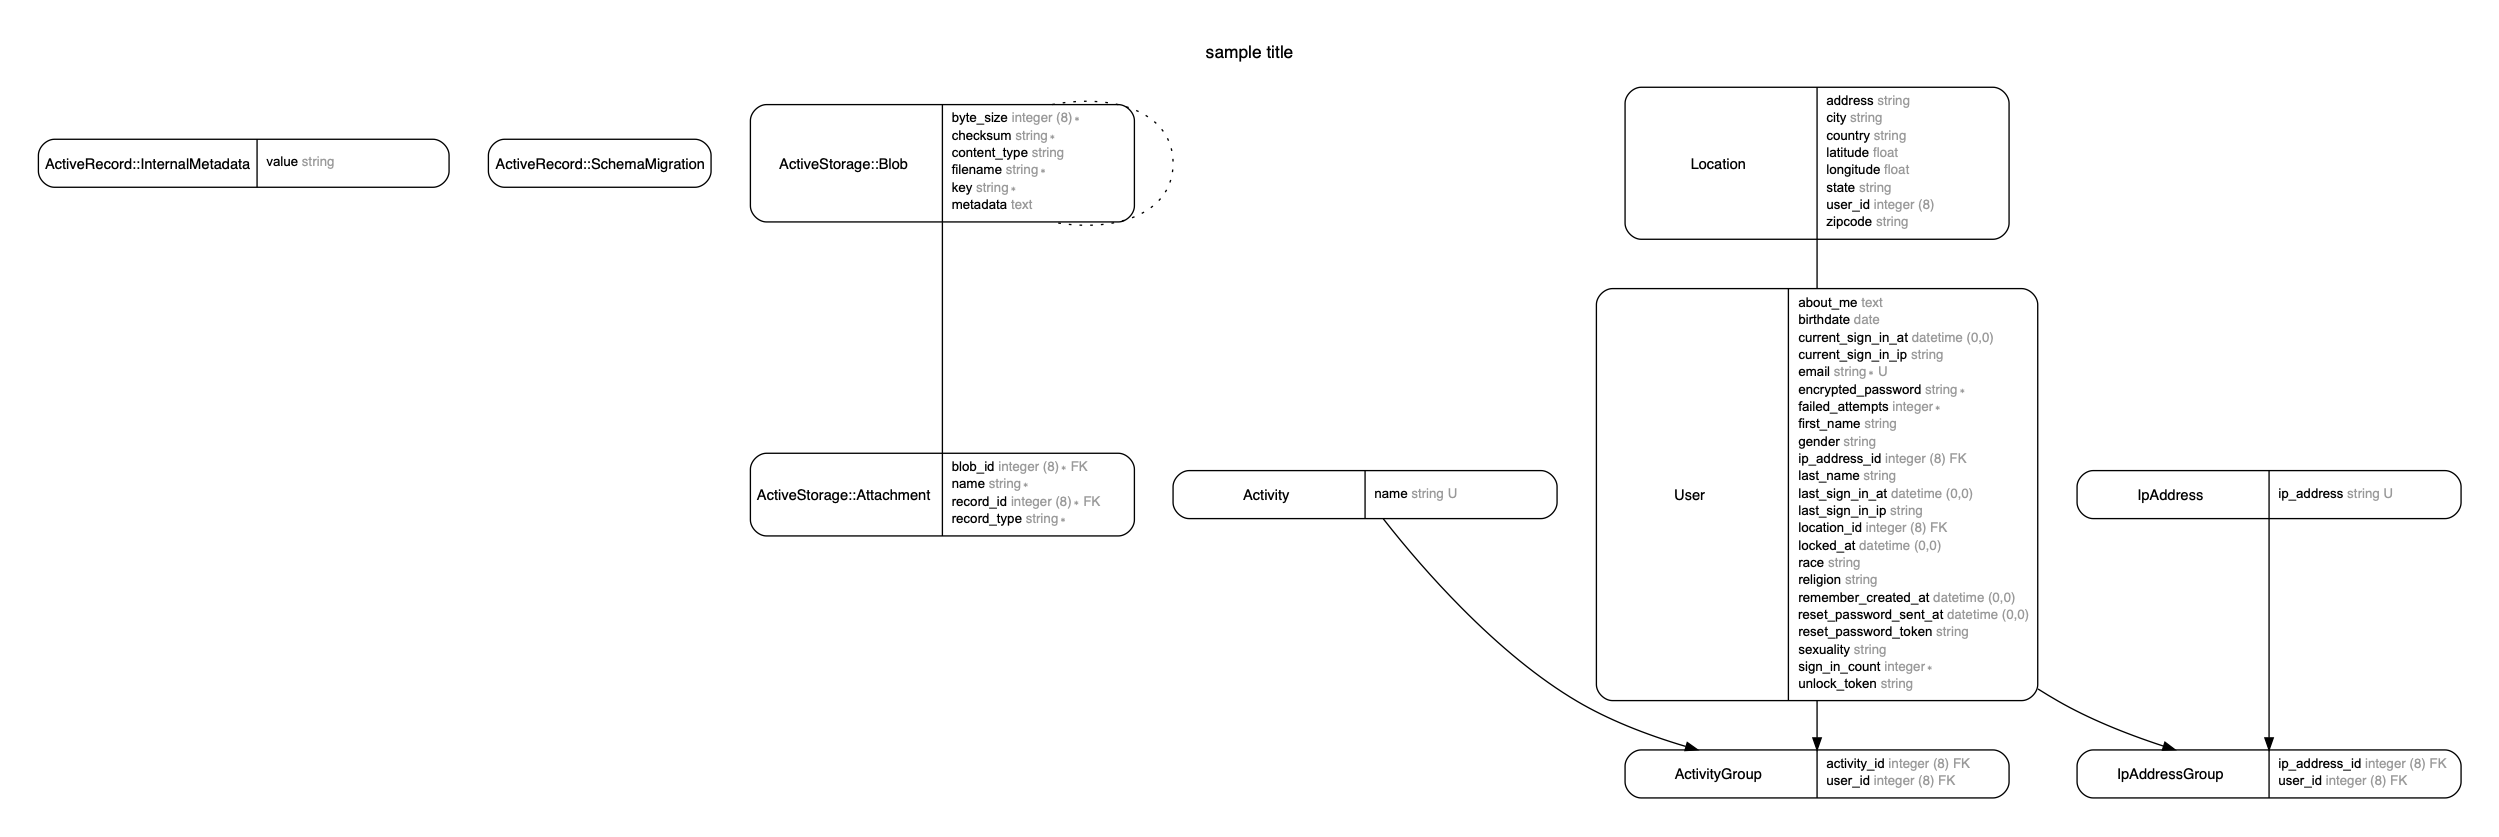
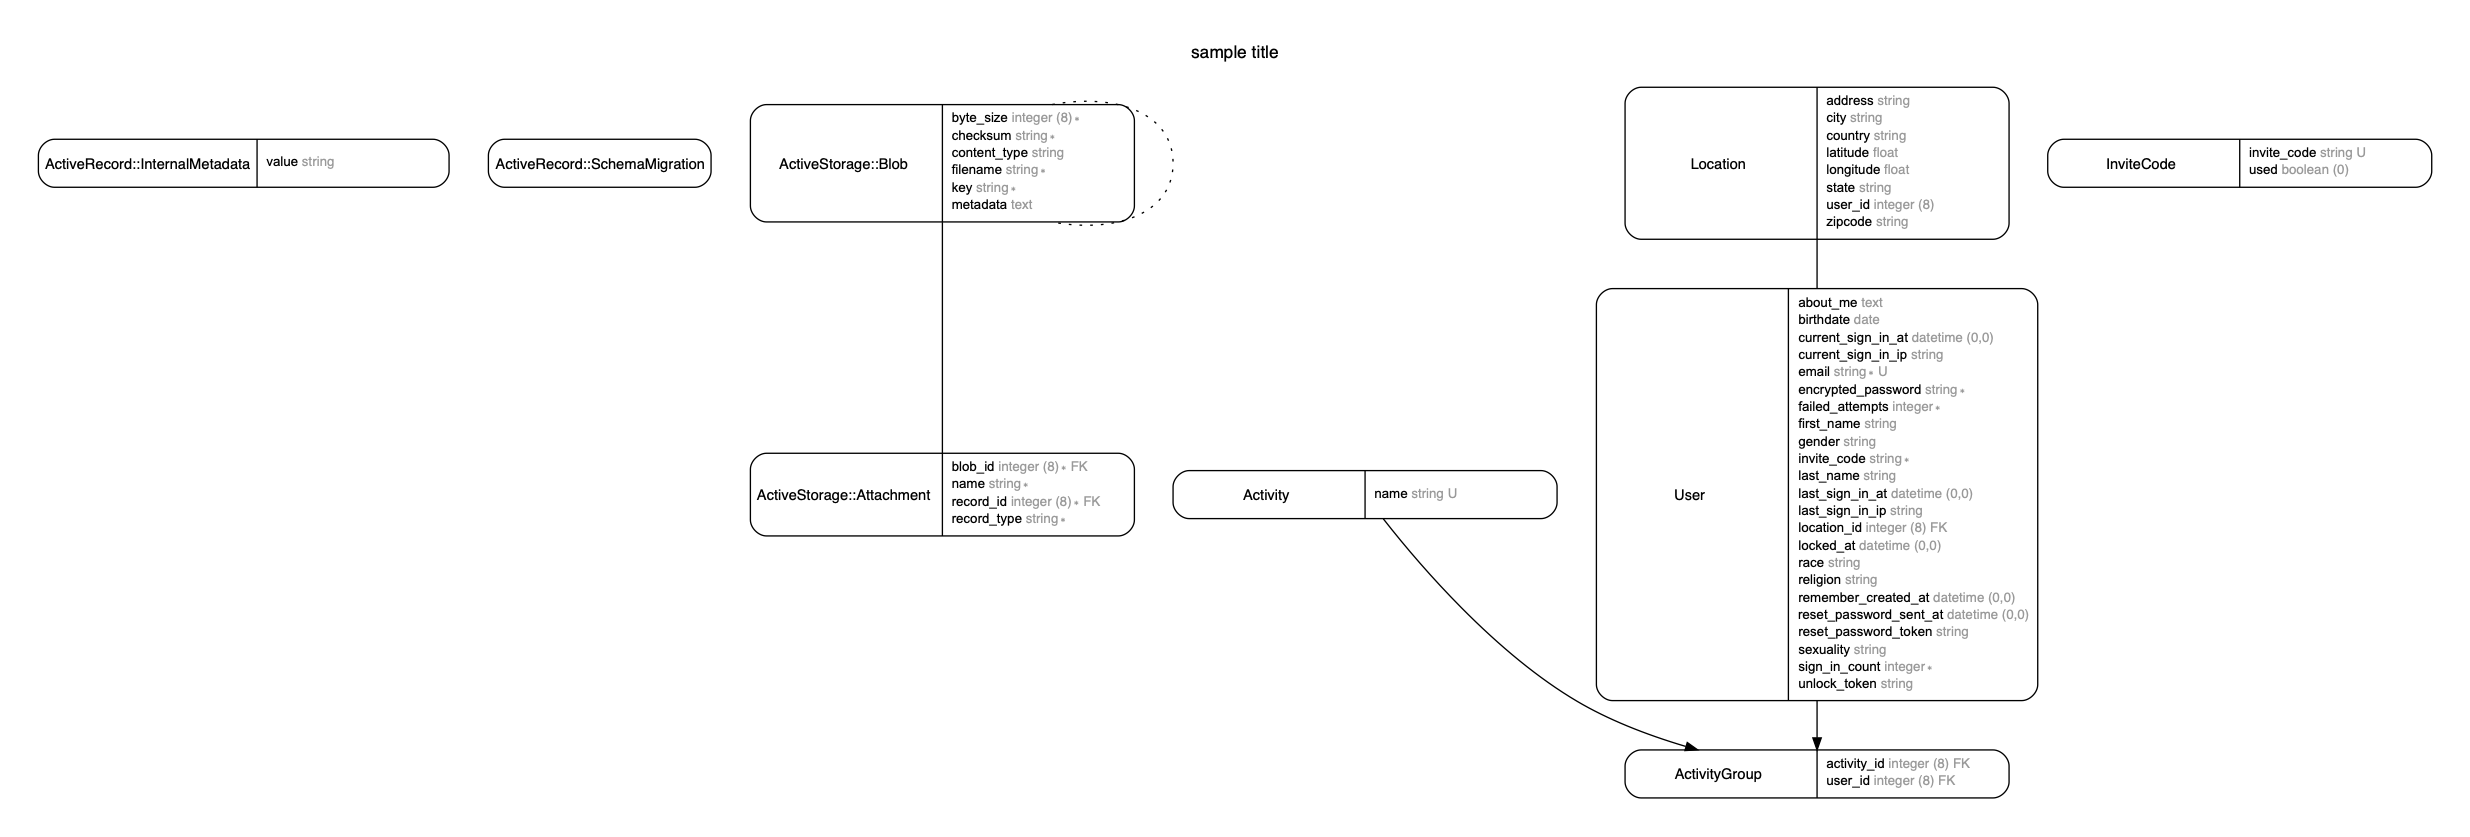
Account update and signup now has correct params, can be updated and also has invite code.

diff --git a/db/schema.rb b/db/schema.rb
@@ -10,7 +10,7 @@
 #
 # It's strongly recommended that you check this file into your version control system.
 
-ActiveRecord::Schema.define(version: 2019_08_07_175021) do
+ActiveRecord::Schema.define(version: 2019_08_07_220426) do
 
   create_table "active_storage_attachments", options: "ENGINE=InnoDB DEFAULT CHARSET=utf8", force: :cascade do |t|
     t.string "name", null: false
@@ -48,17 +48,9 @@ ActiveRecord::Schema.define(version: 2019_08_07_175021) do
     t.index ["user_id"], name: "index_activity_groups_on_user_id"
   end
 
-  create_table "ip_address_groups", options: "ENGINE=InnoDB DEFAULT CHARSET=utf8", force: :cascade do |t|
-    t.bigint "user_id"
-    t.bigint "ip_address_id"
-    t.datetime "created_at", null: false
-    t.datetime "updated_at", null: false
-    t.index ["ip_address_id"], name: "index_ip_address_groups_on_ip_address_id"
-    t.index ["user_id"], name: "index_ip_address_groups_on_user_id"
-  end
-
-  create_table "ip_addresses", options: "ENGINE=InnoDB DEFAULT CHARSET=utf8", force: :cascade do |t|
-    t.string "ip_address"
+  create_table "invite_codes", options: "ENGINE=InnoDB DEFAULT CHARSET=utf8", force: :cascade do |t|
+    t.string "invite_code"
+    t.boolean "used", default: false
     t.datetime "created_at", null: false
     t.datetime "updated_at", null: false
   end
@@ -81,7 +73,6 @@ ActiveRecord::Schema.define(version: 2019_08_07_175021) do
     t.datetime "created_at", null: false
     t.datetime "updated_at", null: false
     t.text "about_me"
-    t.bigint "ip_address_id"
     t.bigint "location_id"
     t.string "gender"
     t.string "sexuality"
@@ -103,14 +94,13 @@ ActiveRecord::Schema.define(version: 2019_08_07_175021) do
     t.integer "failed_attempts", default: 0, null: false
     t.string "unlock_token"
     t.datetime "locked_at"
+    t.string "invite_code"
     t.index ["email"], name: "index_users_on_email", unique: true
-    t.index ["ip_address_id"], name: "index_users_on_ip_address_id"
     t.index ["location_id"], name: "index_users_on_location_id"
     t.index ["reset_password_token"], name: "index_users_on_reset_password_token", unique: true
   end
 
   add_foreign_key "active_storage_attachments", "active_storage_blobs", column: "blob_id"
   add_foreign_key "locations", "users"
-  add_foreign_key "users", "ip_addresses"
   add_foreign_key "users", "locations", on_delete: :cascade
 end

diff --git a/app/controllers/users/registrations_controller.rb b/app/controllers/users/registrations_controller.rb
@@ -4,6 +4,28 @@ class Users::RegistrationsController < Devise::RegistrationsController
   # before_action :configure_sign_up_params, only: [:create]
   # before_action :configure_account_update_params, only: [:update]
 
+  before_action :validate_invite_code, only: [:create]
+
+  def validate_invite_code
+    invite_code = params[:user][:invite_code]
+     
+    if invite_code != nil
+        validInviteCode = InviteCode.find_by(invite_code: invite_code) != nil
+        if !validInviteCode
+          redirect_to root_path, notice: 'Invite code is not valid.'
+        end
+
+        if validInviteCode
+          invite = InviteCode.find_by(invite_code: invite_code)
+          if invite.used
+            redirect_to root_path, notice: 'Invite code has been used.'
+          end
+        end
+      else
+        redirect_to root_path, notice: 'Invite code is not valid.'
+    end
+  end
+
   # GET /resource/sign_up
   # def new
   #   super
@@ -33,6 +55,10 @@ class Users::RegistrationsController < Devise::RegistrationsController
     resource.location_id = @location.id
 
     resource.save!
+
+    inv = InviteCode.find_by(invite_code: resource.invite_code)
+    inv.used = true
+    inv.save!
 
     end
   end
@@ -64,14 +90,14 @@ class Users::RegistrationsController < Devise::RegistrationsController
   # protected
 
   # If you have extra params to permit, append them to the sanitizer.
-  # def configure_sign_up_params
-  #   devise_parameter_sanitizer.permit(:sign_up, keys: [:attribute])
-  # end
+  def configure_sign_up_params
+    devise_parameter_sanitizer.permit(:sign_up, keys: [:first_name, :last_name, :birthdate, :gender, :sexuality, :race, :religion, :about_me, :invite_code])
+  end
 
   # If you have extra params to permit, append them to the sanitizer.
-  # def configure_account_update_params
-  #   devise_parameter_sanitizer.permit(:account_update, keys: [:attribute])
-  # end
+  def configure_account_update_params
+    devise_parameter_sanitizer.permit(:account_update, keys: [:first_name, :last_name, :birthdate, :gender, :sexuality, :race, :religion, :about_me, :invite_code])
+  end
 
   # The path used after sign up.
   # def after_sign_up_path_for(resource)

diff --git a/app/models/user.rb b/app/models/user.rb
@@ -3,24 +3,23 @@
 class User < ApplicationRecord
   devise :database_authenticatable, :registerable, :rememberable, :trackable, :timeoutable, :validatable, :lockable
 
+  validates :invite_code, presence: true
 
   validates :email, presence: true, uniqueness: true
   validates :email, format: { with: URI::MailTo::EMAIL_REGEXP }
-  validates :password, presence: true,
-                       confirmation: true,
-                       length: { within: 6..40 },
-                       on: :create
-  validates :password, confirmation: true,
-                       length: { within: 6..40 },
-                       allow_blank: true,
-                       on: :update
+  #validates :password, presence: true,
+  #                     confirmation: true,
+  #                     length: { within: 6..40 },
+  #                     on: :create
+  #validates :password, confirmation: true,
+  #                     length: { within: 6..40 },
+  #                     allow_blank: true,
+  #                     on: :update
 
   has_many :activity_group
   has_many :activities, through: :activity_group
 
   belongs_to :location, optional: true
-
-  belongs_to :ip_address, optional: true
 
   validates :about_me, length: { minimum: 150, maximum: 3000 }
 

diff --git a/app/controllers/application_controller.rb b/app/controllers/application_controller.rb
@@ -7,7 +7,8 @@ class ApplicationController < ActionController::Base
   protected
 
   def configure_permitted_parameters
-    devise_parameter_sanitizer.permit(:sign_up, keys: [:first_name, :last_name, :birthdate, :gender, :sexuality, :race, :religion, :about_me])
+    devise_parameter_sanitizer.permit(:sign_up, keys: [:first_name, :last_name, :birthdate, :gender, :sexuality, :race, :religion, :about_me, :invite_code])
+    devise_parameter_sanitizer.permit(:account_update, keys: [:first_name, :last_name, :birthdate, :gender, :sexuality, :race, :religion, :about_me, :invite_code])
   end
 
 end

diff --git a/db/seeds.rb b/db/seeds.rb
@@ -22,3 +22,10 @@ Activity.create!([
                    { name: 'Karaoke' },
                    { name: 'Concerts' }
                  ])
+
+invite_codes = (0...1000).map { { invite_code: SecureRandom.hex(7) } }
+invite_codes = invite_codes.uniq
+               
+invite_codes.each do |invite_code|
+  InviteCode.find_or_create_by!( invite_code )
+end

diff --git a/db/migrate/20190807211024_create_invite_codes.rb b/db/migrate/20190807211024_create_invite_codes.rb
@@ -1,0 +1,10 @@
+class CreateInviteCodes < ActiveRecord::Migration[5.2]
+  def change
+    create_table :invite_codes do |t|
+      t.string :invite_code
+      t.boolean :used, default: false
+      
+      t.timestamps
+    end
+  end
+end

diff --git a/test/models/invite_code_test.rb b/test/models/invite_code_test.rb
@@ -1,0 +1,7 @@
+require 'test_helper'
+
+class InviteCodeTest < ActiveSupport::TestCase
+  # test "the truth" do
+  #   assert true
+  # end
+end

diff --git a/db/migrate/20190807220426_add_invite_code_to_user.rb b/db/migrate/20190807220426_add_invite_code_to_user.rb
@@ -1,0 +1,5 @@
+class AddInviteCodeToUser < ActiveRecord::Migration[5.2]
+  def change
+    add_column :users, :invite_code, :string
+  end
+end

diff --git a/app/models/invite_code.rb b/app/models/invite_code.rb
@@ -1,0 +1,3 @@
+class InviteCode < ApplicationRecord
+    validates_uniqueness_of :invite_code
+end
